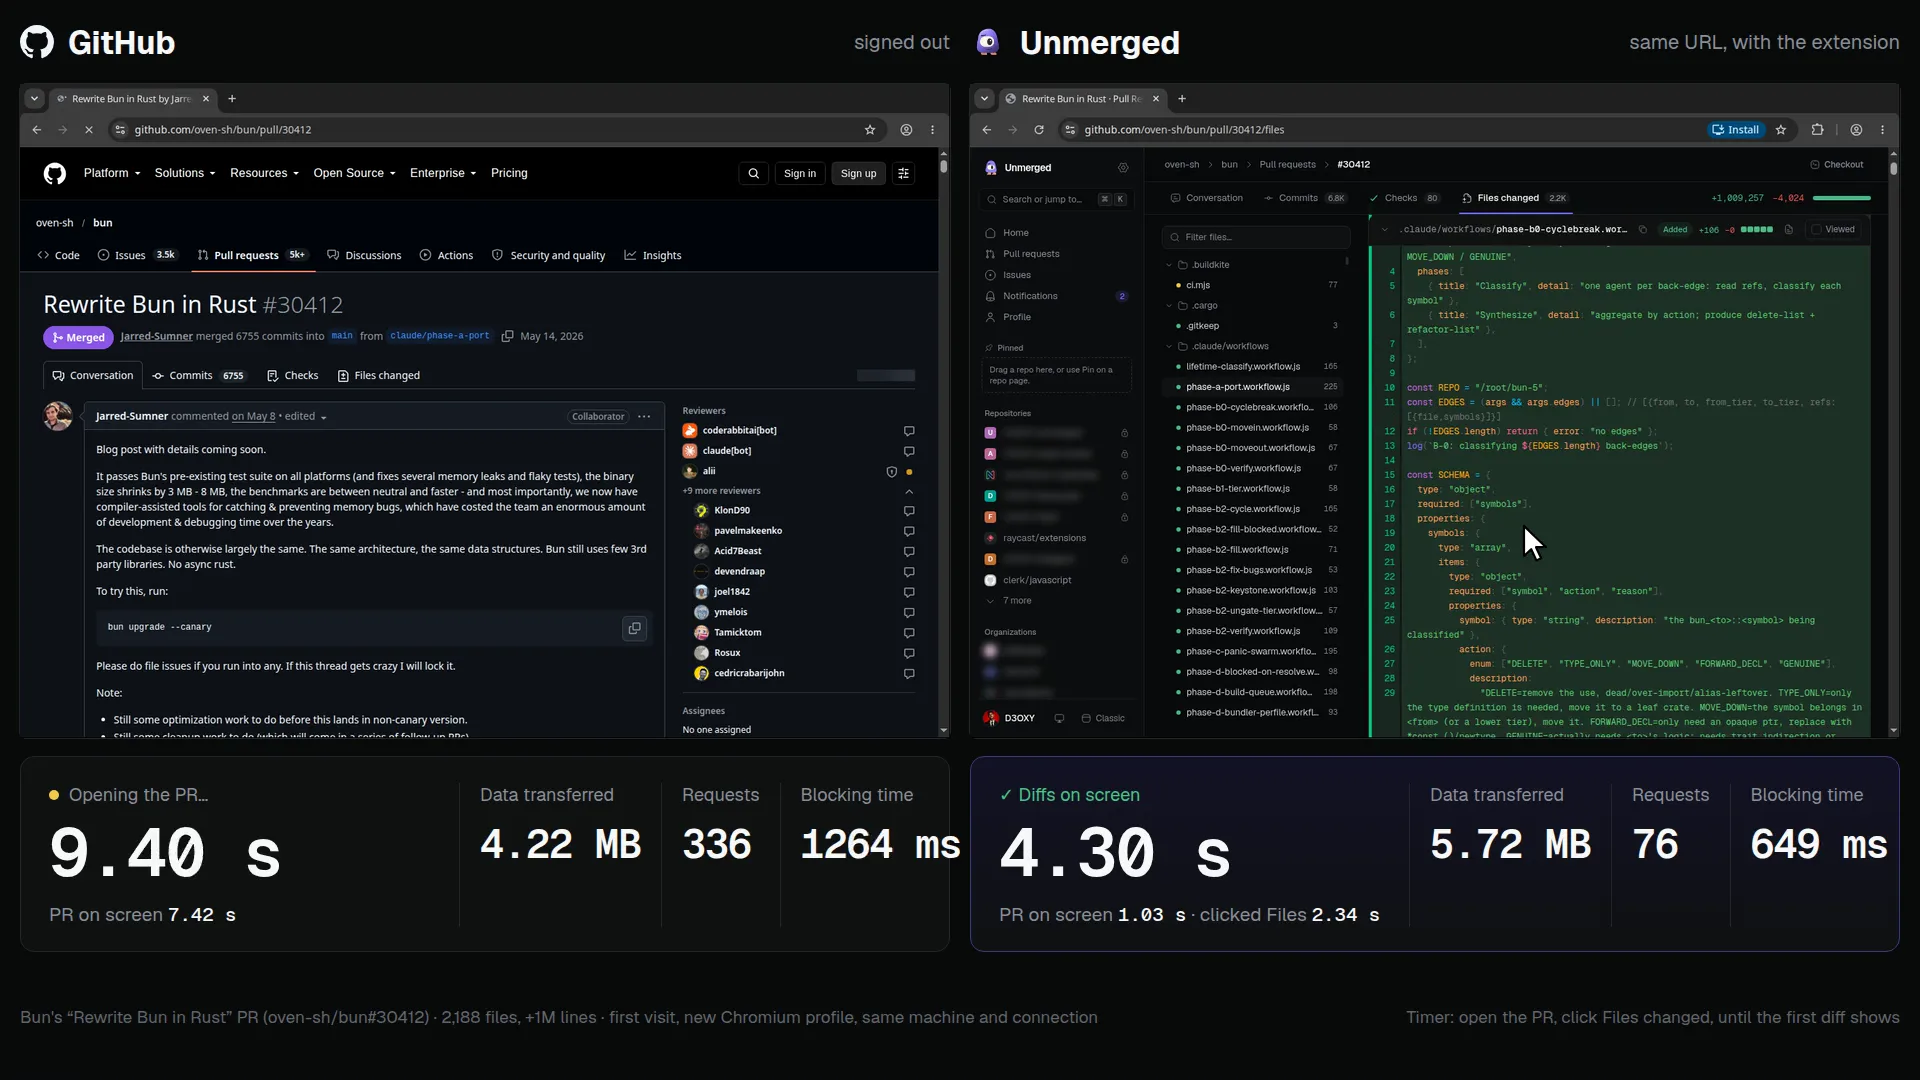
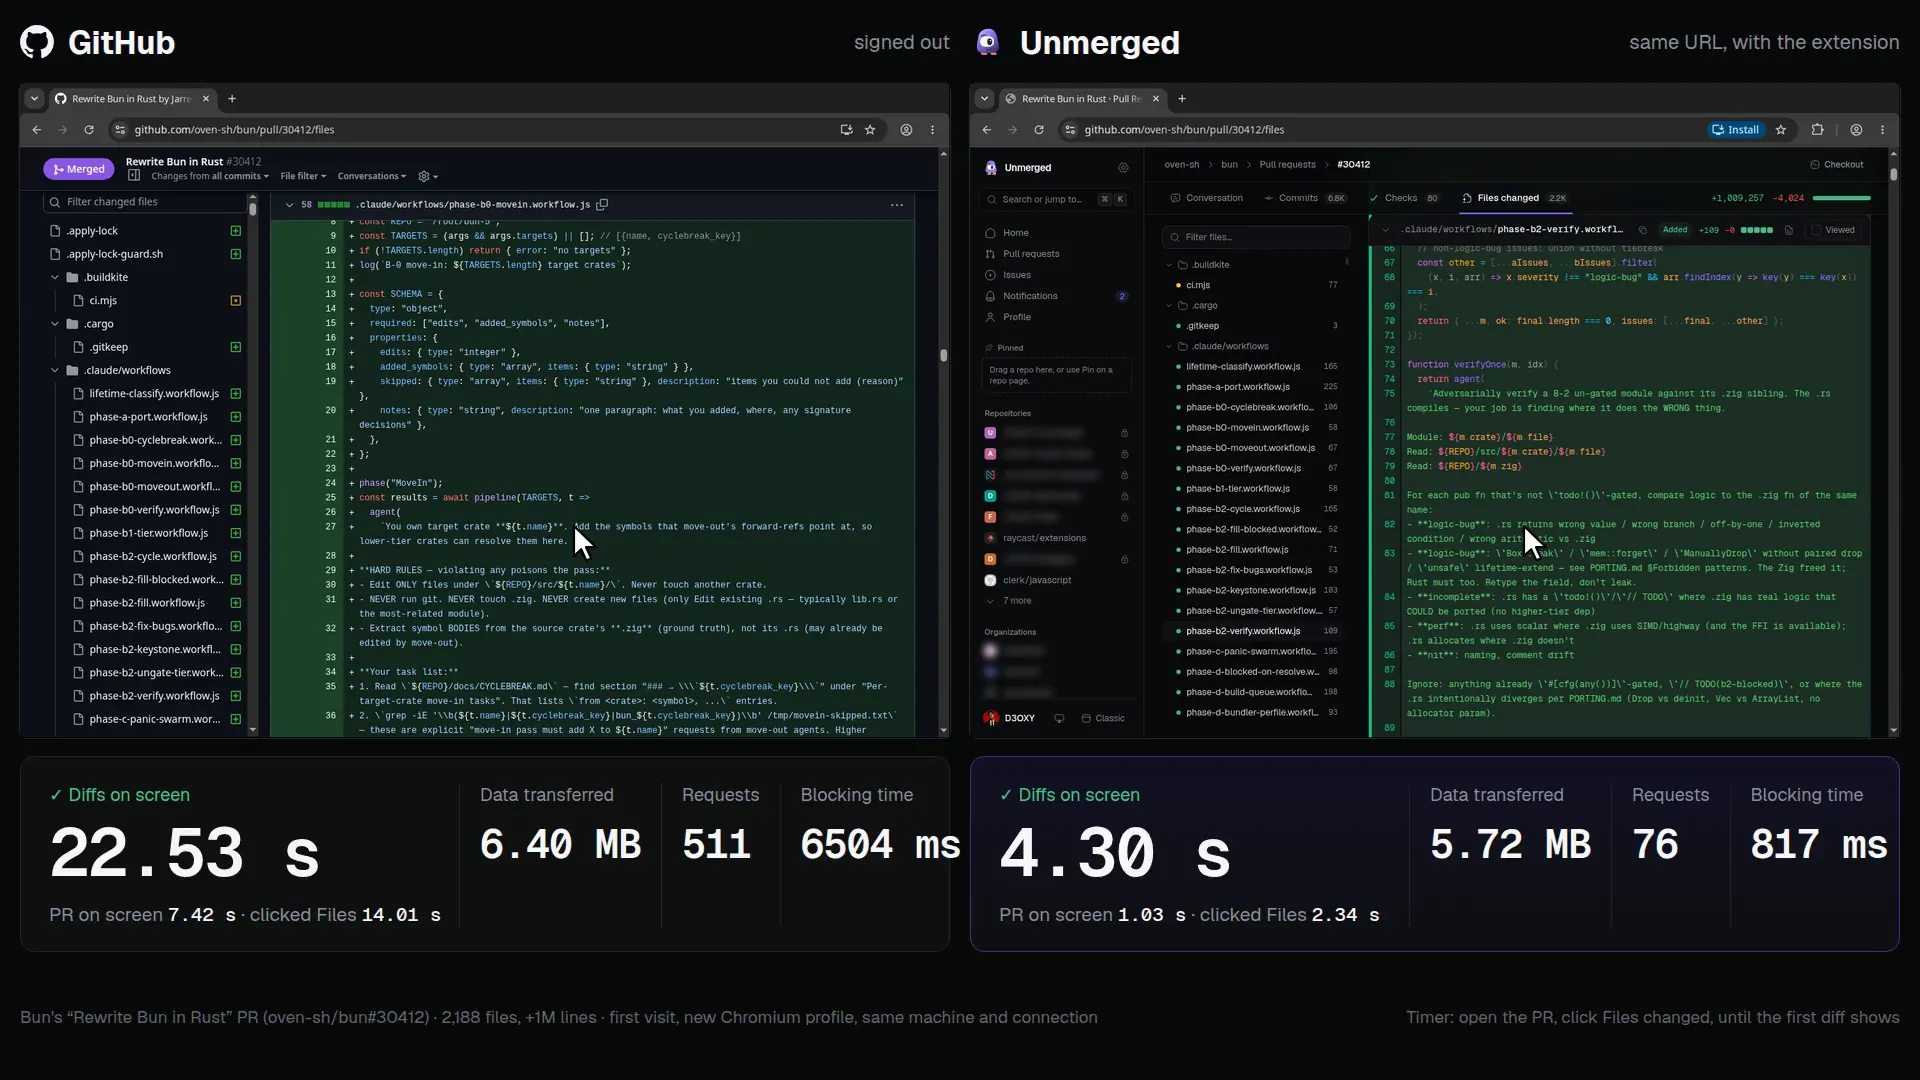
site: a large play button and a final-frame poster for the side-by-side video (#141)

diff --git a/site/src/routes/index.tsx b/site/src/routes/index.tsx
@@ -1,4 +1,4 @@
-import { useEffect, useState, type ReactNode } from 'react';
+import { useEffect, useRef, useState, type ReactNode } from 'react';
 import { createFileRoute } from '@tanstack/react-router';
 import { HugeiconsIcon, type IconSvgElement } from '@hugeicons/react';
 import {
@@ -248,9 +248,18 @@ const SIDE_BY_SIDE_VIDEO = 'https://prcl.deoxy.dev/f/3qk673u0zqq4/side-by-side.m
 
 /**
  * A recording of Bun's rewrite in Rust (oven-sh/bun#30412) loading in GitHub and in Unmerged at the same time.
- * The video loads only when the reader plays it; until then, the poster shows both sides at 10 s.
+ * The video loads only when the reader plays it; until then, the poster shows its last frame, with both final times.
+ * A large play button covers the poster, because the native controls alone make it look like a screenshot.
  */
 function SideBySide() {
+  const video = useRef<HTMLVideoElement>(null);
+  const [started, setStarted] = useState(false);
+
+  // The button unmounts on play, so give focus to the video once it has its controls.
+  useEffect(() => {
+    if (started) video.current?.focus();
+  }, [started]);
+
   return (
     <Section
       id="side-by-side"
@@ -258,17 +267,36 @@ function SideBySide() {
       lede="Bun's rewrite in Rust changes 2,188 files and more than a million lines. Both sides open it, click Files changed, and scroll down through the diffs."
     >
       <figure>
-        <video
-          src={SIDE_BY_SIDE_VIDEO}
-          poster={sideBySidePoster}
-          controls
-          playsInline
-          preload="none"
-          width={1920}
-          height={1080}
-          aria-label="GitHub and Unmerged open the same pull request side by side, with a timer and live metrics under each"
-          className="h-auto w-full rounded-2xl border border-line bg-panel shadow-[0_30px_80px_-20px_rgb(0_0_0/0.7)]"
-        />
+        <div className="relative">
+          <video
+            ref={video}
+            src={SIDE_BY_SIDE_VIDEO}
+            poster={sideBySidePoster}
+            controls={started}
+            playsInline
+            preload="none"
+            width={1920}
+            height={1080}
+            onPlay={() => setStarted(true)}
+            aria-label="GitHub and Unmerged open the same pull request side by side, with a timer and live metrics under each"
+            className="h-auto w-full rounded-2xl border border-line bg-panel shadow-[0_30px_80px_-20px_rgb(0_0_0/0.7)]"
+          />
+          {!started && (
+            <button
+              type="button"
+              aria-label="Play the side-by-side video (35 seconds)"
+              onClick={() => void video.current?.play()}
+              className="group absolute inset-0 flex flex-col items-center justify-center gap-3 rounded-2xl bg-black/25 transition-colors duration-150 hover:bg-black/10"
+            >
+              <span className="grid size-16 place-items-center rounded-full bg-accent text-accent-fg shadow-[inset_0_1px_0_rgb(255_255_255/0.2),0_10px_40px_-8px_var(--u-accent)] transition-transform duration-150 group-hover:scale-105 group-active:scale-95 sm:size-24">
+                <svg aria-hidden viewBox="0 0 24 24" className="ml-1 size-7 sm:size-10" fill="currentColor">
+                  <path d="M7 4.5v15a1 1 0 0 0 1.5.86l12.5-7.5a1 1 0 0 0 0-1.72L8.5 3.64A1 1 0 0 0 7 4.5Z" />
+                </svg>
+              </span>
+              <span className="glass hidden rounded-full px-3 py-1 font-mono text-[12px] text-fg sm:block">0:35</span>
+            </button>
+          )}
+        </div>
         <figcaption className="mt-3 text-[12.5px] leading-relaxed text-subtle">
           First diff on screen: GitHub in 22.5 s, Unmerged in 4.3 s. Both signed out of github.com, each in a new
           Chromium profile on the same machine and connection. Each side is the median of three recordings.
